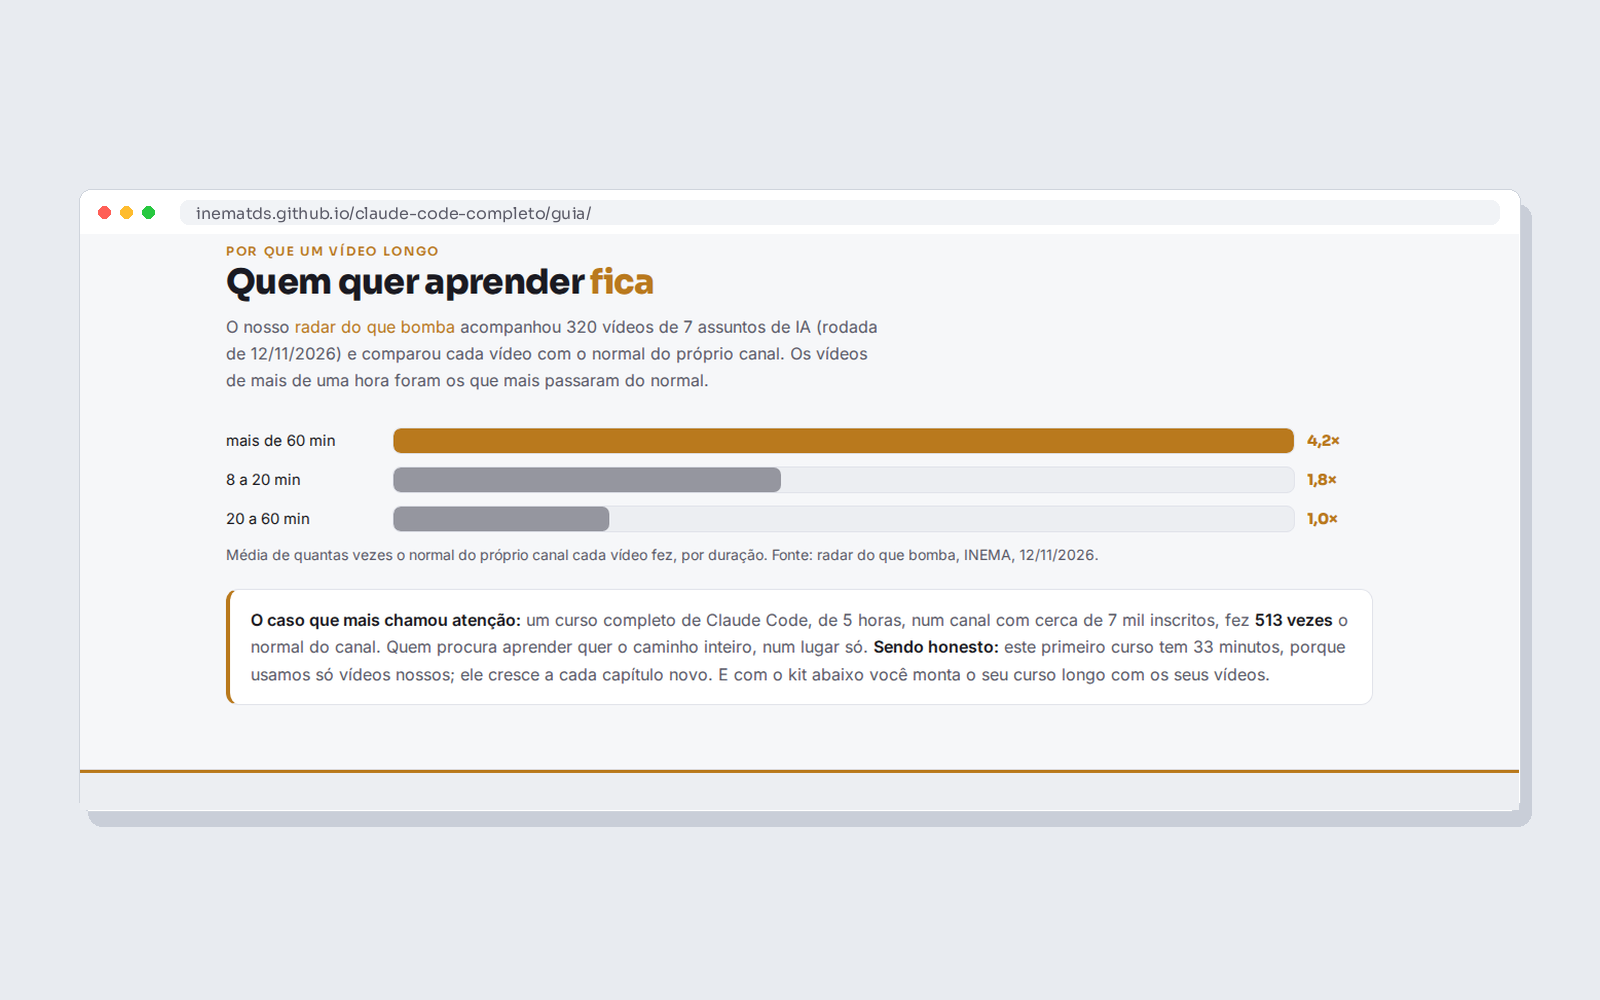
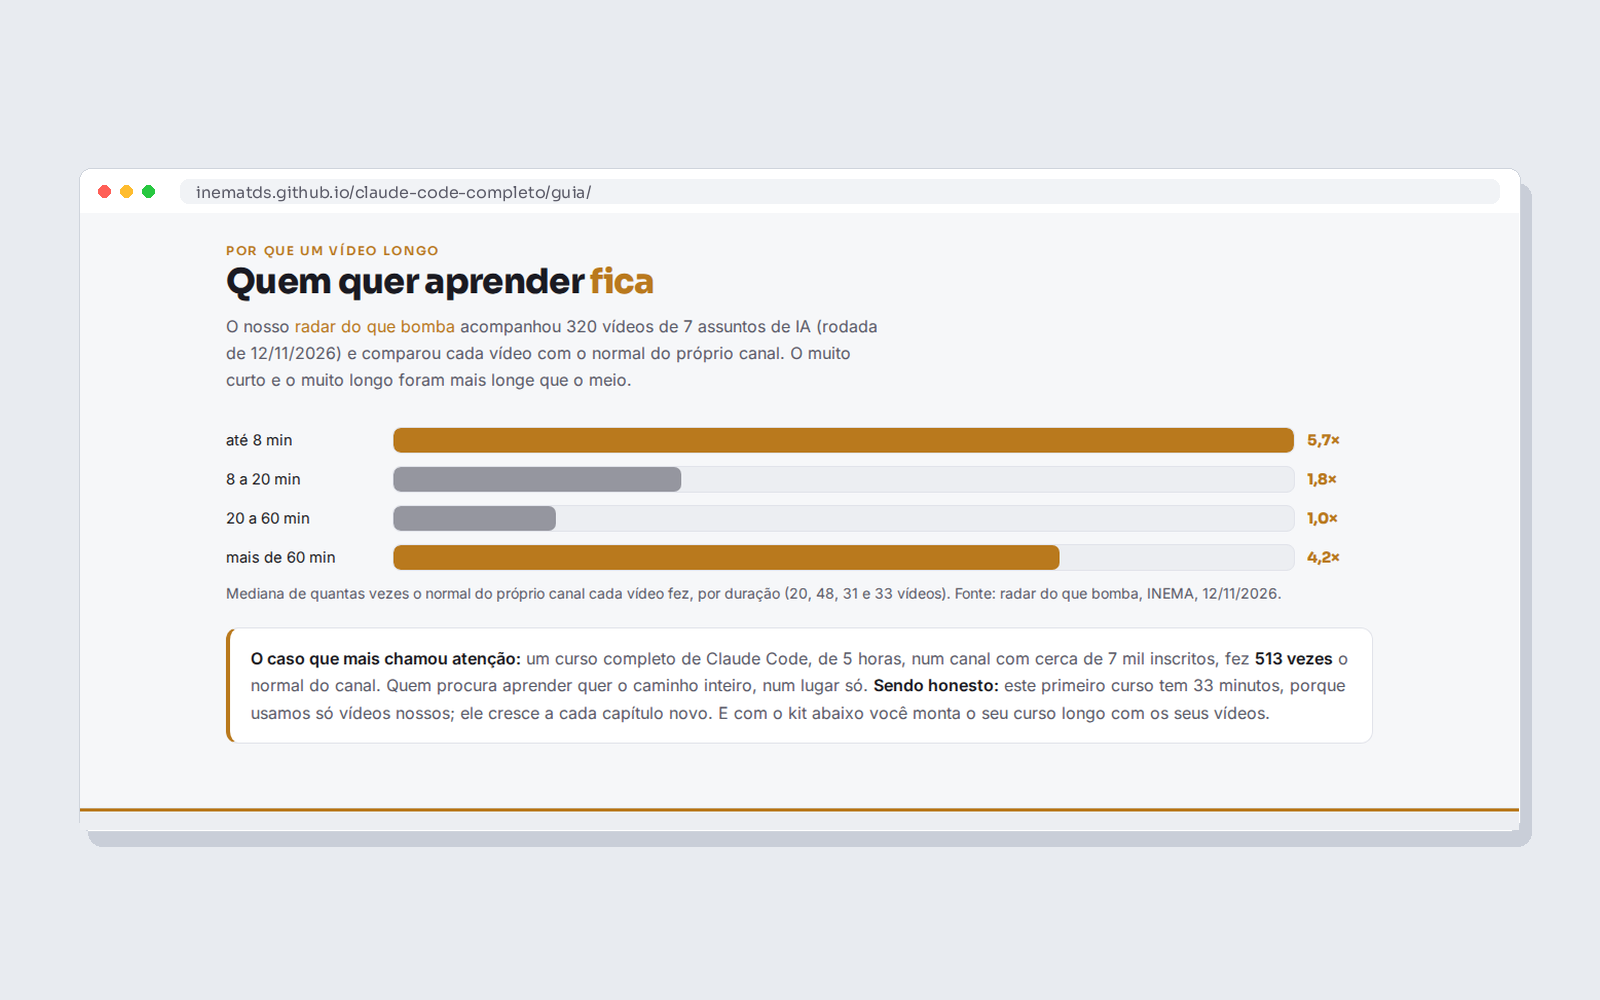
guia: radar com as 4 faixas (mediana: até 8 min 5,7×, 8–20 1,8×, 20–60 1,0×, >60 4,2×), sem dizer que o longo foi o maior; print video-porque refeito

diff --git a/guia/es/index.html b/guia/es/index.html
@@ -271,13 +271,14 @@
 <section id="porque"><div class="wrap">
 <span class="chip">Por qué un video largo</span>
 <h2>Quién quiere aprender <span class="amb">queda</span></h2>
-<p class="sub">Nuestro <a href="https://inematds.github.io/youtube-bombando/guia/es/" rel="noopener" target="_blank">radar de lo que está en auge</a> siguió 320 videos de 7 temas de IA (ronda del 12/11/2026) y comparó cada video con el promedio del propio canal. Los videos de más de una hora fueron los que más superaron el promedio.</p>
-<div aria-label="Cuántas veces supera el promedio del propio canal, por duración del video: más de 60 minutos, 4,2 veces; de 8 a 20 minutos, 1,8 veces; de 20 a 60 minutos, 1,0 vez" class="barras" role="img">
-<div class="barra"><span>8 a 20 min</span><div class="trilho"><div class="enche fraco" style="width:43%"></div></div><b>1,8×</b></div>
-<div class="barra"><span>20 a 60 min</span><div class="trilho"><div class="enche fraco" style="width:24%"></div></div><b>1,0×</b></div>
-<div class="barra"><span>más de 60 min</span><div class="trilho"><div class="enche" style="width:100%"></div></div><b>4,2×</b></div>
+<p class="sub">Nuestro <a href="https://inematds.github.io/youtube-bombando/guia/es/" rel="noopener" target="_blank">radar de lo que está en auge</a> siguió 320 videos de 7 temas de IA (ronda del 12/11/2026) y comparó cada video con el promedio del propio canal. Lo muy corto y lo muy largo llegaron más lejos que lo intermedio.</p>
+<div aria-label="Mediana de cuántas veces el normal del propio canal, por duración: hasta 8 minutos 5,7 veces; 8 a 20 minutos 1,8 veces; 20 a 60 minutos 1,0 vez; más de 60 minutos 4,2 veces" class="barras" role="img">
+<div class="barra"><span>hasta 8 min</span><div class="trilho"><div class="enche" style="width:100%"></div></div><b>5,7×</b></div>
+<div class="barra"><span>8 a 20 min</span><div class="trilho"><div class="enche fraco" style="width:32%"></div></div><b>1,8×</b></div>
+<div class="barra"><span>20 a 60 min</span><div class="trilho"><div class="enche fraco" style="width:18%"></div></div><b>1,0×</b></div>
+<div class="barra"><span>más de 60 min</span><div class="trilho"><div class="enche" style="width:74%"></div></div><b>4,2×</b></div>
 </div>
-<p class="mut" style="margin-top:10px;font-size:.88rem">Promedio de cuántas veces cada video superó el rendimiento habitual del propio canal, según la duración. Fuente: radar de lo que está en auge, INEMA, 12/11/2026.</p>
+<p class="mut" style="margin-top:10px;font-size:.88rem">Mediana de cuántas veces el normal del propio canal hizo cada video, por duración (20, 48, 31 y 33 videos). Fuente: radar de lo que está en auge, INEMA, 12/11/2026.</p>
 <div class="nota"><b>El caso que más llamó la atención:</b> un curso completo de Claude Code, de 5 horas, en un canal con cerca de 7 mil suscriptores, hizo <b>513 veces</b> lo habitual del canal. Quien busca aprender quiere todo el recorrido en un solo lugar. <b>Siendo honestos:</b> este primer curso dura 33 minutos, porque usamos solo nuestros propios videos; crece con cada capítulo nuevo. Y con el kit de abajo puedes armar tu curso largo con tus videos.</div>
 </div></section>
 <div class="techhead" id="tecnico"><div class="wrap">

diff --git a/guia/en/index.html b/guia/en/index.html
@@ -271,13 +271,14 @@
 <section id="porque"><div class="wrap">
 <span class="chip">Why a long video</span>
 <h2>Who wants to learn <span class="amb">stays</span></h2>
-<p class="sub">Our <a href="https://inematds.github.io/youtube-bombando/guia/en/" rel="noopener" target="_blank">what's trending radar</a> tracked 320 videos across 7 AI topics (November 12, 2026 run) and compared each video with its channel’s usual performance. Videos over an hour were the ones that most exceeded the norm.</p>
-<div aria-label="Average views compared with the channel’s usual performance, by video length: over 60 minutes, 4.2×; 8 to 20 minutes, 1.8×; 20 to 60 minutes, 1.0×" class="barras" role="img">
-<div class="barra"><span>8 to 20 min</span><div class="trilho"><div class="enche fraco" style="width:43%"></div></div><b>1.8×</b></div>
-<div class="barra"><span>20 to 60 min</span><div class="trilho"><div class="enche fraco" style="width:24%"></div></div><b>1.0×</b></div>
-<div class="barra"><span>over 60 min</span><div class="trilho"><div class="enche" style="width:100%"></div></div><b>4.2×</b></div>
+<p class="sub">Our <a href="https://inematds.github.io/youtube-bombando/guia/en/" rel="noopener" target="_blank">what's trending radar</a> tracked 320 videos across 7 AI topics (November 12, 2026 run) and compared each video with its channel’s usual performance. Very short and very long videos went further than the middle.</p>
+<div aria-label="Median times the channel's usual, by length: up to 8 minutes 5.7 times; 8 to 20 minutes 1.8 times; 20 to 60 minutes 1.0 time; over 60 minutes 4.2 times" class="barras" role="img">
+<div class="barra"><span>up to 8 min</span><div class="trilho"><div class="enche" style="width:100%"></div></div><b>5.7×</b></div>
+<div class="barra"><span>8 to 20 min</span><div class="trilho"><div class="enche fraco" style="width:32%"></div></div><b>1.8×</b></div>
+<div class="barra"><span>20 to 60 min</span><div class="trilho"><div class="enche fraco" style="width:18%"></div></div><b>1.0×</b></div>
+<div class="barra"><span>over 60 min</span><div class="trilho"><div class="enche" style="width:74%"></div></div><b>4.2×</b></div>
 </div>
-<p class="mut" style="margin-top:10px;font-size:.88rem">Average number of times each video performed above the channel's usual level, by duration. Source: INEMA's what's trending radar, November 12, 2026.</p>
+<p class="mut" style="margin-top:10px;font-size:.88rem">Median of how many times its channel's usual each video did, by length (20, 48, 31 and 33 videos). Source: INEMA's what's trending radar, November 12, 2026.</p>
 <div class="nota"><b>The case that drew the most attention:</b> a 5-hour complete Claude Code course on a channel with around 7,000 subscribers got <b>513 times</b> the channel's usual format. People looking to learn want the whole journey in one place. <b>Honestly:</b> This first course is 33 minutes long because we only use our own videos; it grows with each new chapter. And with the kit below, you can build your own long-form course using your own videos.</div>
 </div></section>
 <div class="techhead" id="tecnico"><div class="wrap">

diff --git a/guia/index.html b/guia/index.html
@@ -271,13 +271,14 @@
 <section id="porque"><div class="wrap">
 <span class="chip">Por que um vídeo longo</span>
 <h2>Quem quer aprender <span class="amb">fica</span></h2>
-<p class="sub">O nosso <a href="https://inematds.github.io/youtube-bombando/guia/" rel="noopener" target="_blank">radar do que bomba</a> acompanhou 320 vídeos de 7 assuntos de IA (rodada de 12/11/2026) e comparou cada vídeo com o normal do próprio canal. Os vídeos de mais de uma hora foram os que mais passaram do normal.</p>
-<div aria-label="Quantas vezes o normal do próprio canal, em média, por duração do vídeo: 8 a 20 minutos 1,8 vez; 20 a 60 minutos 1,0 vez; mais de 60 minutos 4,2 vezes" class="barras" role="img">
-<div class="barra"><span>8 a 20 min</span><div class="trilho"><div class="enche fraco" style="width:43%"></div></div><b>1,8×</b></div>
-<div class="barra"><span>20 a 60 min</span><div class="trilho"><div class="enche fraco" style="width:24%"></div></div><b>1,0×</b></div>
-<div class="barra"><span>mais de 60 min</span><div class="trilho"><div class="enche" style="width:100%"></div></div><b>4,2×</b></div>
+<p class="sub">O nosso <a href="https://inematds.github.io/youtube-bombando/guia/" rel="noopener" target="_blank">radar do que bomba</a> acompanhou 320 vídeos de 7 assuntos de IA (rodada de 12/11/2026) e comparou cada vídeo com o normal do próprio canal. O muito curto e o muito longo foram mais longe que o meio.</p>
+<div aria-label="Mediana de quantas vezes o normal do próprio canal, por duração: até 8 minutos 5,7 vezes; 8 a 20 minutos 1,8 vez; 20 a 60 minutos 1,0 vez; mais de 60 minutos 4,2 vezes" class="barras" role="img">
+<div class="barra"><span>até 8 min</span><div class="trilho"><div class="enche" style="width:100%"></div></div><b>5,7×</b></div>
+<div class="barra"><span>8 a 20 min</span><div class="trilho"><div class="enche fraco" style="width:32%"></div></div><b>1,8×</b></div>
+<div class="barra"><span>20 a 60 min</span><div class="trilho"><div class="enche fraco" style="width:18%"></div></div><b>1,0×</b></div>
+<div class="barra"><span>mais de 60 min</span><div class="trilho"><div class="enche" style="width:74%"></div></div><b>4,2×</b></div>
 </div>
-<p class="mut" style="margin-top:10px;font-size:.88rem">Média de quantas vezes o normal do próprio canal cada vídeo fez, por duração. Fonte: radar do que bomba, INEMA, 12/11/2026.</p>
+<p class="mut" style="margin-top:10px;font-size:.88rem">Mediana de quantas vezes o normal do próprio canal cada vídeo fez, por duração (20, 48, 31 e 33 vídeos). Fonte: radar do que bomba, INEMA, 12/11/2026.</p>
 <div class="nota"><b>O caso que mais chamou atenção:</b> um curso completo de Claude Code, de 5 horas, num canal com cerca de 7 mil inscritos, fez <b>513 vezes</b> o normal do canal. Quem procura aprender quer o caminho inteiro, num lugar só. <b>Sendo honesto:</b> este primeiro curso tem 33 minutos, porque usamos só vídeos nossos; ele cresce a cada capítulo novo. E com o kit abaixo você monta o seu curso longo com os seus vídeos.</div>
 </div></section>
 <div class="techhead" id="tecnico"><div class="wrap">
